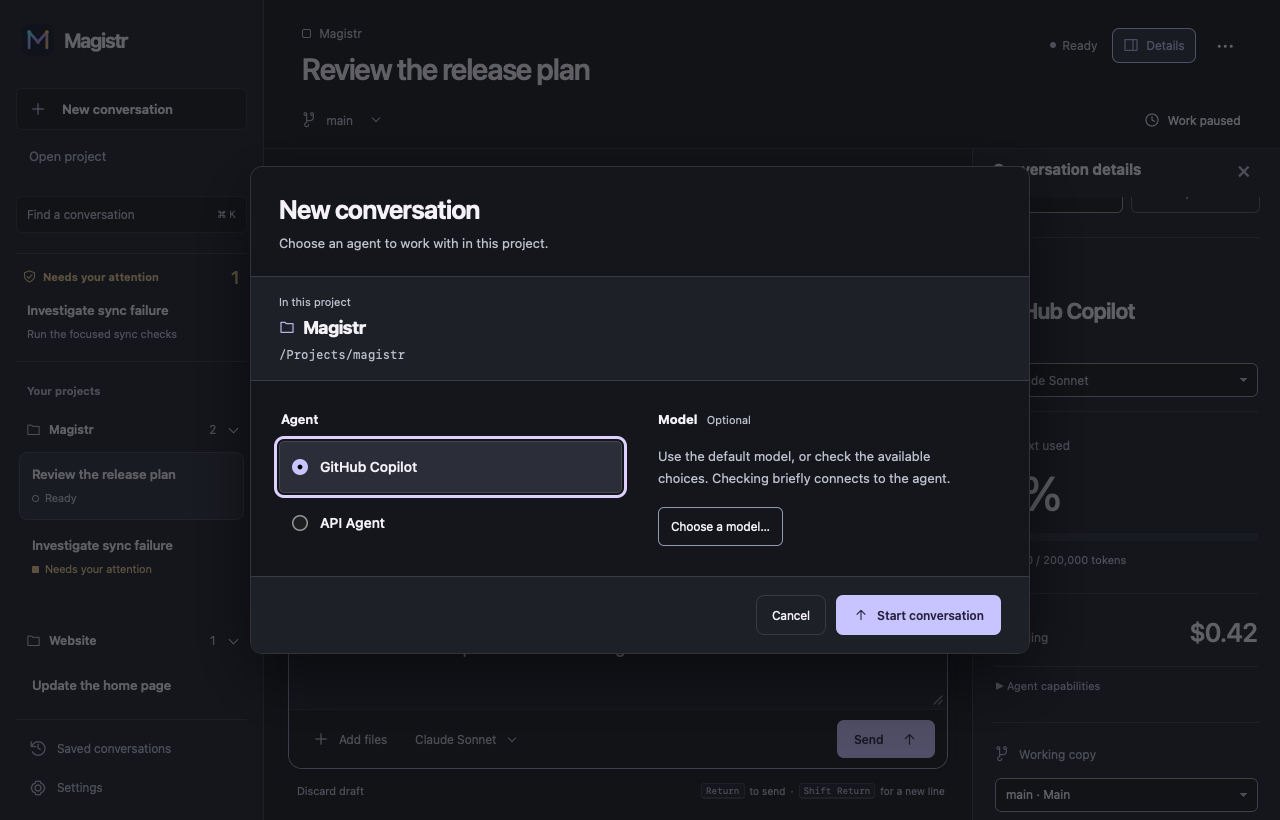
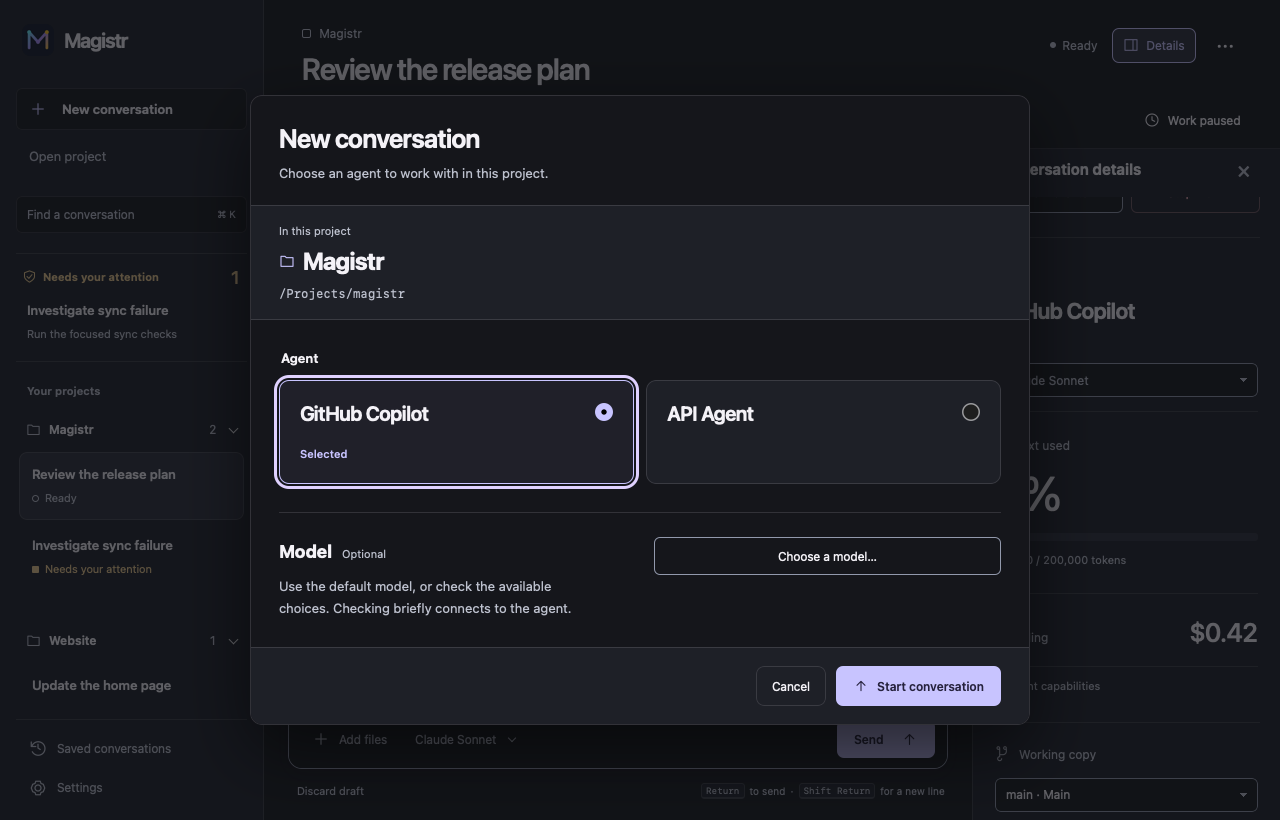
feat(desktop): present agent selection as a visual conversation setup

diff --git a/crates/magistr-desktop/ui/style.css b/crates/magistr-desktop/ui/style.css
@@ -399,25 +399,26 @@ dialog h3{margin:20px 0 10px;font-size:17px}.dialog-actions{display:flex;justify
 #session-picker{width:780px;padding:0;max-height:calc(100dvh - 56px)}
 #session-form{display:flex;flex-direction:column;max-height:inherit}
 .session-destination{padding:16px var(--dialog-gutter);background:var(--panel);border-block:1px solid var(--separator);flex-shrink:0}
-.session-destination>span{display:block;font-size:11px;color:var(--muted);margin-bottom:3px}.session-destination strong{font-size:18px;letter-spacing:-.025em;display:flex;align-items:center;gap:8px}.session-destination strong::before{color:var(--accent)}
+.session-destination>span{display:block;font-size:11px;color:var(--muted);margin-bottom:3px}.session-destination strong{font-size:24px;letter-spacing:-.025em;display:flex;align-items:center;gap:8px}.session-destination strong::before{color:var(--accent)}
 .session-destination p{font-size:12px;margin:4px 0 0}
-.session-choices{padding:28px var(--dialog-gutter);min-height:0;overflow:auto}.session-choice-columns{display:grid;grid-template-columns:minmax(0,1fr) minmax(0,1fr);gap:36px;align-items:start}
+.session-choices{padding:28px var(--dialog-gutter);min-height:0;overflow:auto}.session-choice-columns{display:grid;grid-template-columns:minmax(0,1fr);gap:28px;align-items:start}
 .session-choices fieldset{border:0;padding:0;margin:0;min-width:0}.session-choices legend{font-size:13px;font-weight:600;margin-bottom:12px}
-#agent-choice{display:flex;flex-direction:column;gap:4px}
-#agent-choice label{display:flex;align-items:center;gap:12px;padding:14px 12px;border:1px solid transparent;border-radius:5px;margin:0;cursor:pointer;background:transparent;min-height:48px}
-#agent-choice label:hover{background:var(--panel)}#agent-choice label:has(:checked){border-color:var(--separator);background:var(--raised)}
+#agent-choice{display:grid;grid-template-columns:repeat(auto-fit,minmax(min(100%,200px),1fr));gap:12px}
+#agent-choice label{display:grid;grid-template-columns:minmax(0,1fr) auto;align-items:start;gap:18px 12px;padding:20px;border:1px solid var(--separator);border-radius:10px;margin:0;cursor:pointer;background:var(--panel);min-height:104px}
+#agent-choice label:hover{background:var(--raised)}#agent-choice label:has(:checked){border-color:var(--accent);background:color-mix(in srgb,var(--accent) 6%,var(--base))}
 #agent-choice label:has(:focus-visible){outline:3px solid var(--focus);outline-offset:2px}#agent-choice input:focus-visible{outline:none}
-#agent-choice input{flex:0 0 16px;width:16px;min-height:16px;margin:0;accent-color:var(--accent)}#agent-choice :checked~.agent-name{color:var(--text)}#agent-choice .agent-name{font-size:14px;font-weight:500;overflow-wrap:anywhere}
+#agent-choice input{grid-column:2;grid-row:1;width:18px;min-height:18px;margin:2px 0 0;accent-color:var(--accent)}#agent-choice :checked~.agent-name{color:var(--text)}#agent-choice .agent-name{grid-column:1;grid-row:1;font-size:20px;line-height:1.3;letter-spacing:-.025em;font-weight:600;overflow-wrap:anywhere}
+.agent-selected{grid-column:1/-1;font-size:11px;color:var(--accent);visibility:hidden}#agent-choice :checked~.agent-selected{visibility:visible}
 #agent-choice-empty{font-size:13px;margin:0 0 12px}
-#session-model-section{margin:0;padding:0;min-width:0}
+#session-model-section{display:grid;grid-template-columns:minmax(0,1fr) minmax(0,1fr);gap:28px;margin:0;padding:24px 0 0;min-width:0;border-top:1px solid var(--separator)}.model-choice-controls{min-width:0}
 .model-choice-heading{display:flex;align-items:center;gap:12px;justify-content:space-between}
-.model-choice-heading h3{font-size:13px;margin:0}.model-choice-heading h3 span{font-size:11px;font-weight:400;color:var(--muted);margin-left:6px}
-#choose-initial-model{font-size:12px;padding:9px 12px;margin-top:18px}#model-choice-note{font-size:13px;line-height:1.7;margin:16px 0 0;max-width:38ch}
+.model-choice-heading h3{font-size:18px;margin:0}.model-choice-heading h3 span{font-size:11px;font-weight:400;color:var(--muted);margin-left:6px}
+#choose-initial-model{font-size:12px;padding:9px 12px;margin-top:0;width:100%;text-align:center}#model-choice-note{font-size:13px;line-height:1.7;margin:10px 0 0;max-width:38ch}
 #initial-model-control{margin-top:16px}#initial-model-control label{font-size:12px}
 #session-picker-status,#session-picker-error{font-size:13px;margin:16px 0 0}#session-picker-status{color:var(--accent)}
 #session-picker-error{border:0;border-radius:6px;padding:12px;max-height:110px;overflow:auto}
 #session-picker .picker-footer{margin:0}
-@media(max-width:600px){.session-choice-columns{grid-template-columns:1fr;gap:28px}.session-choices{padding-block:22px}.session-destination strong{font-size:16px}#session-model-section{padding-top:22px;border-top:1px solid var(--separator)}}
+@media(max-width:600px){.session-choice-columns{grid-template-columns:1fr;gap:28px}.session-choices{padding-block:22px}.session-destination strong{font-size:16px}#session-model-section{padding-top:22px;grid-template-columns:1fr;gap:16px}}
 
 #history-picker{width:1120px;max-width:calc(100vw - 48px);height:min(740px,calc(100dvh - 56px));max-height:calc(100dvh - 56px);padding:0}
 #history-picker[open]{display:flex;flex-direction:column}

diff --git a/crates/magistr-desktop/ui/index.html b/crates/magistr-desktop/ui/index.html
@@ -148,7 +148,7 @@
     <div class="session-destination"><span>In this project</span><strong id="session-destination-name" data-leading-icon="folder"></strong><p id="session-destination-path" class="path"></p></div>
     <div class="session-choices"><div class="session-choice-columns">
       <fieldset><legend>Agent</legend><div id="agent-choice"></div><p id="agent-choice-empty" hidden>No agents were found. Set up an agent on this computer, then check again.</p><button id="session-picker-retry" type="button" hidden>Check again</button></fieldset>
-      <section id="session-model-section" aria-label="Model choice" hidden><div class="model-choice-heading"><h3>Model <span>Optional</span></h3></div><p id="model-choice-note">Use the default model, or check the available choices.</p><button id="choose-initial-model" type="button">Choose a model…</button><div id="initial-model-control" hidden><label for="initial-model">Model for this conversation</label><select id="initial-model"></select></div></section>
+      <section id="session-model-section" aria-label="Model choice" hidden><div><div class="model-choice-heading"><h3>Model <span>Optional</span></h3></div><p id="model-choice-note">Use the default model, or check the available choices.</p></div><div class="model-choice-controls"><button id="choose-initial-model" type="button">Choose a model…</button><div id="initial-model-control" hidden><label for="initial-model">Model for this conversation</label><select id="initial-model"></select></div></div></section>
       </div><p id="session-picker-status" role="status" aria-live="polite" hidden></p><p id="session-picker-error" class="error" role="alert" tabindex="-1" hidden></p>
     </div>
     <footer class="picker-footer dialog-footer"><div class="dialog-actions"><button id="session-picker-cancel" type="button">Cancel</button><button id="session-picker-open" data-leading-icon="arrow" type="submit">Start conversation</button></div></footer>
